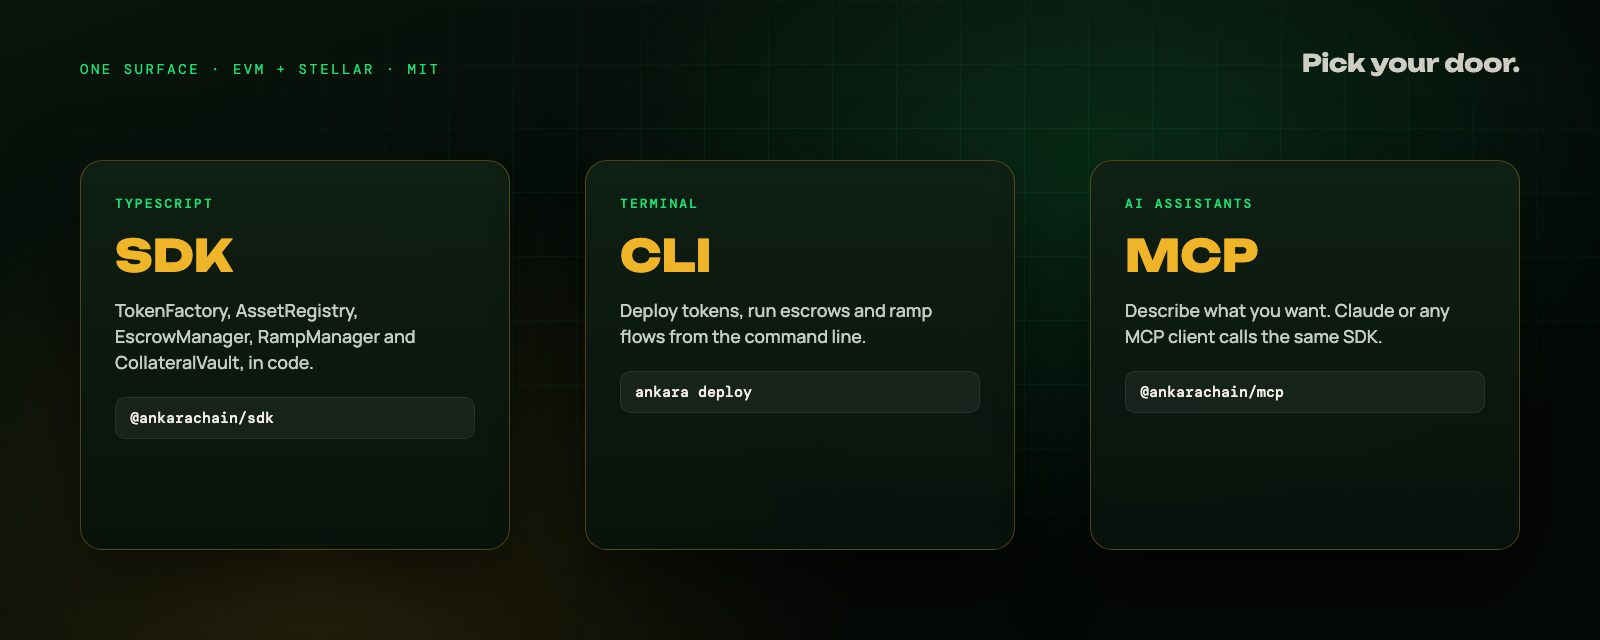
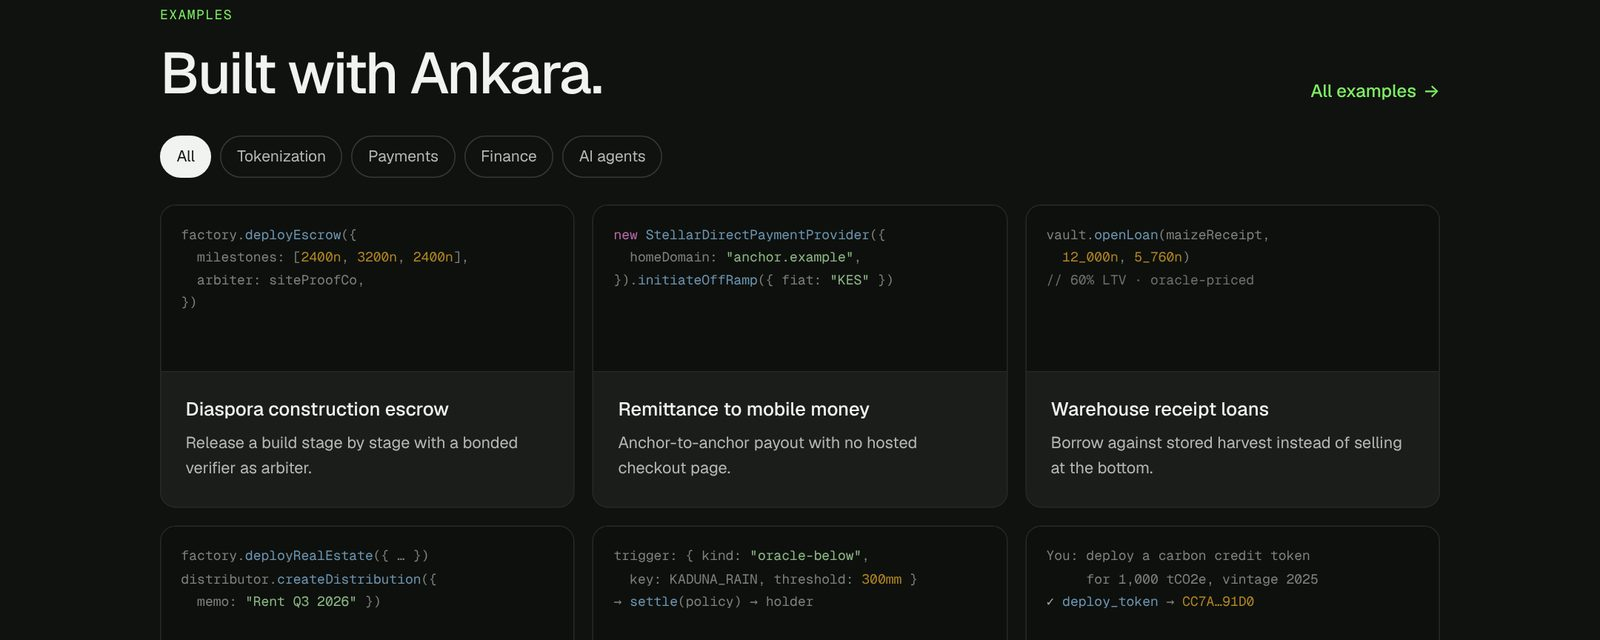
Add FJM portfolio, new Ankara Chain design, AMTAP and Troopa screens
- New project: FJM Portfolio (fjmusa.netlify.app), with site screenshots.
  The contact section is left out of the captures.
- Replace the Ankara Chain card, hero and gallery with the redesigned
  ankarachain.dev.
- Add AMTAP's cover and five app screens, and five Troopa rider screens,
  exported from the Figma files, with fuller descriptions of each app.
- Link-preview image now counts 27 projects.

Claude-Session: https://claude.ai/code/session_01CUWqX9mSncntJ6L7RUidG4

diff --git a/data/projects.js b/data/projects.js
@@ -186,7 +186,16 @@ const careerProjects = [
     categories: ['mobile', 'backend'],
     stack: ['Flutter', 'Firebase', 'Video transcoding', 'Streaming'],
     featured: true,
-    accent: '#F76707',
+    accent: '#D9F574',
+    cover: { type: 'image', src: '/work/amtap-fitness/cover.jpg', alt: 'AMTAP cover: as many trainers as possible' },
+    hero: { src: '/work/amtap-fitness/cover.jpg', alt: 'AMTAP cover: as many trainers as possible' },
+    gallery: shots('amtap-fitness', [
+      ['home', 'Home feed of training programmes with a 14-day free trial'],
+      ['program', 'Programme page with price, reviews and who it suits'],
+      ['workout', 'Workout player with sets, reps, weight and rest timer'],
+      ['trainer-dashboard', 'Trainer dashboard with sales, subscribers and payouts'],
+      ['signin', 'Sign in with email, biometrics, Google or Facebook'],
+    ]),
     sections: [
       {
         kicker: 'The brief',
@@ -208,6 +217,7 @@ const careerProjects = [
       'Designed the full application schema and backend architecture: data modelling, API structure and storage strategy.',
       'Solved video processing and streaming: coach uploads are transcoded and delivered efficiently, then bundled into purchasable training programmes.',
       'Built the cross-platform mobile experience that lets trainers monetise content and clients reach their programmes.',
+      'Two-sided product: clients follow trainers, subscribe or buy programmes and track sets and reps; trainers get a dashboard for sales, subscribers and payouts.',
     ],
   },
 
@@ -444,14 +454,25 @@ const careerProjects = [
   {
     slug: 'troopa',
     name: 'Troopa Rider',
-    tagline: 'The rider app for Troopa, a logistics platform for package delivery.',
+    tagline: 'The rider app for Troopa Smart Delivery: go online, accept orders, navigate to pickup and drop-off, and track earnings and ratings.',
     label: 'Logistics · Mobile',
     role: 'Mobile Developer',
     org: 'Troopa',
     categories: ['mobile'],
-    stack: ['Flutter'],
-    accent: '#FD7E14',
-    highlights: ['Built the rider-facing mobile app for Troopa’s package delivery platform.'],
+    stack: ['Flutter', 'Maps', 'Realtime'],
+    accent: '#FF7A00',
+    cover: { type: 'phones', srcs: ['/work/troopa/home.jpg', '/work/troopa/routing.jpg'], alt: 'Troopa rider home and live routing screens' },
+    gallery: shots('troopa', [
+      ['home', 'Rider home with earnings, rating and the Go Online button'],
+      ['orders', 'Orders with pickup and drop-off addresses'],
+      ['routing', 'Live routing to the pickup with delivery progress'],
+      ['rating', 'Rider rating overview and customer reviews'],
+      ['welcome', 'Registration complete: welcome to Troopa'],
+    ]),
+    highlights: [
+      'Built the rider-facing mobile app for Troopa’s package delivery platform.',
+      'Riders register with vehicle and document details, go online, accept or reassign orders, follow live routing to pickup and drop-off, and see earnings and ratings.',
+    ],
   },
   {
     slug: 'zuri-chat',
@@ -493,6 +514,29 @@ const careerProjects = [
     ],
   },
   {
+    slug: 'fjmusa',
+    name: 'FJM Portfolio',
+    tagline: 'A portfolio site for an Abuja content creator, brand marketer and signed model: featured work, brand collaborations, public appearances and services.',
+    label: 'Personal brand · Web',
+    role: 'Design & build',
+    org: 'Favour Joseph Musa (client)',
+    categories: ['web'],
+    stack: ['Web design', 'Responsive', 'Netlify'],
+    accent: '#E8E2D6',
+    cover: { type: 'image', src: '/work/fjmusa/web-hero.jpg', alt: 'FJM portfolio site hero with an editorial name lockup and portrait' },
+    links: [{ label: 'Visit the site', url: 'https://fjmusa.netlify.app' }],
+    gallery: shots('fjmusa', [
+      ['web-hero', 'Editorial hero with the name lockup and portrait'],
+      ['web-work', 'Featured work grid'],
+      ['web-collabs', 'Recent brand collaborations'],
+      ['mobile', 'Hero on a phone'],
+    ]),
+    highlights: [
+      'Designed and built an editorial portfolio for a content creator, brand marketer and signed model based in Abuja.',
+      'Sections for featured work, recent brand collaborations, public appearances and services, built to work well on a phone.',
+    ],
+  },
+  {
     slug: 'campaigner',
     name: 'Campaigner',
     tagline: 'A student campaign and voting app, built in Flutter from a Behance case study by Pakhi Mangal.',
@@ -516,7 +560,7 @@ const FEATURED = ['blia', 'agtrail', 'hairstyle-try-on', 'trial-manager', 'amtap
 // Everything else, client and studio work mixed together.
 const MORE = [
   'runshelf', 'wootiv', 'keep', 'sagebrief-legal', 'geisha-mama', 'regwand-legal',
-  'sapa-radar', 'applybetter', 'attest-protocol-sdk', 'youthful-treat', 'gradgap', 'wstc-mobile',
+  'sapa-radar', 'fjmusa', 'applybetter', 'attest-protocol-sdk', 'youthful-treat', 'gradgap', 'wstc-mobile',
   'pie-drops-brand', 'menji', 'levelup', 'zuri-chat', 'foodbag', 'troopa',
   'budget-pro', 'campaigner',
 ]

diff --git a/data/studio.js b/data/studio.js
@@ -139,28 +139,28 @@ export default [
     cover: {
       type: "image",
       src: "/work/ankara-chain/card.jpg",
-      alt: "Ankara Chain landing page headline with asset template and Stellar testnet panels"
+      alt: "Ankara Chain website: real-world asset infrastructure you own"
     },
     hero: {
       src: "/work/ankara-chain/hero.jpg",
-      alt: "Ankara Chain landing page and developer docs on a dark green grid"
+      alt: "Ankara Chain landing page with the TypeScript SDK code sample"
     },
     gallery: [
       {
         src: "/work/ankara-chain/g1.jpg",
-        alt: "The six Ankara Chain asset templates: farmland, commodity receipts, real estate, invoices, carbon credits and mining rights"
+        alt: "Ankara Chain landing page on a phone"
       },
       {
         src: "/work/ankara-chain/g2.jpg",
-        alt: "Ankara Chain MCP server documentation with tool names"
+        alt: "Asset templates for farmland, real estate, invoices, carbon and mining rights"
       },
       {
         src: "/work/ankara-chain/g3.jpg",
-        alt: "Seven Soroban contracts deployed on Stellar testnet"
+        alt: "Pricing: open-source core SDK, a dashboard and compliance modules"
       },
       {
         src: "/work/ankara-chain/g4.jpg",
-        alt: "The Ankara Chain SDK, CLI and MCP server side by side"
+        alt: "Built with Ankara: escrow, remittance and warehouse-receipt loan examples"
       }
     ],
     sections: [
